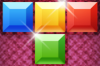
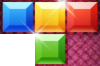
update

Changed region(s): [[0.0, 0.5152, 0.36, 1.0]]

diff --git a/client/src/game/GameScene.cpp b/client/src/game/GameScene.cpp
@@ -47,9 +47,13 @@ bool FLGame::init()
     CCPoint origin = CCDirector::sharedDirector()->getVisibleOrigin();
 
     do 
-    {    
+    {
+        CCSprite* bg = CCSprite::create("bg.png");
+        bg->setAnchorPoint(ccp(0,0));
+        addChild(bg,-2);
+        
         this->setTileMap(CCTMXTiledMap::create("bg.tmx"));
-        this->setBackground(_tileMap->layerNamed("back"));
+        this->setBackground(_tileMap->layerNamed("block_grid"));
         this->addChild(_tileMap, -1);
 
         setGameBlock(new FLGameBlock(*this));
@@ -148,7 +152,10 @@ void FLGame::check_score()
     bool needrefresh = false;
     for(int i = 0 ; i < 4 ;i++)
     {
-        int bgy = LayerSize.height - 1 - getGameBlock()->GetBlockY() - i;
+        int bgy = LayerSize.height - 2 - getGameBlock()->GetBlockY() - i;
+        if (bgy < 0 )
+            break;
+        
         bool isFull = true;
         unsigned int* tiles = getBackground()->getTiles();
         for (int j = 0 ; j < LayerSize.width ; j++)
@@ -157,7 +164,7 @@ void FLGame::check_score()
             if (status == 0 || status == 4)
             {
                 isFull = false;
-                continue;
+                break;
             }
         }
 
@@ -169,6 +176,7 @@ void FLGame::check_score()
                 int w = LayerSize.width;
                 memcpy(tiles + j*w , tiles + (j+1)*w,sizeof(unsigned int)*w);              
             }
+            --m_BlockHeight;
         }
     }
 
